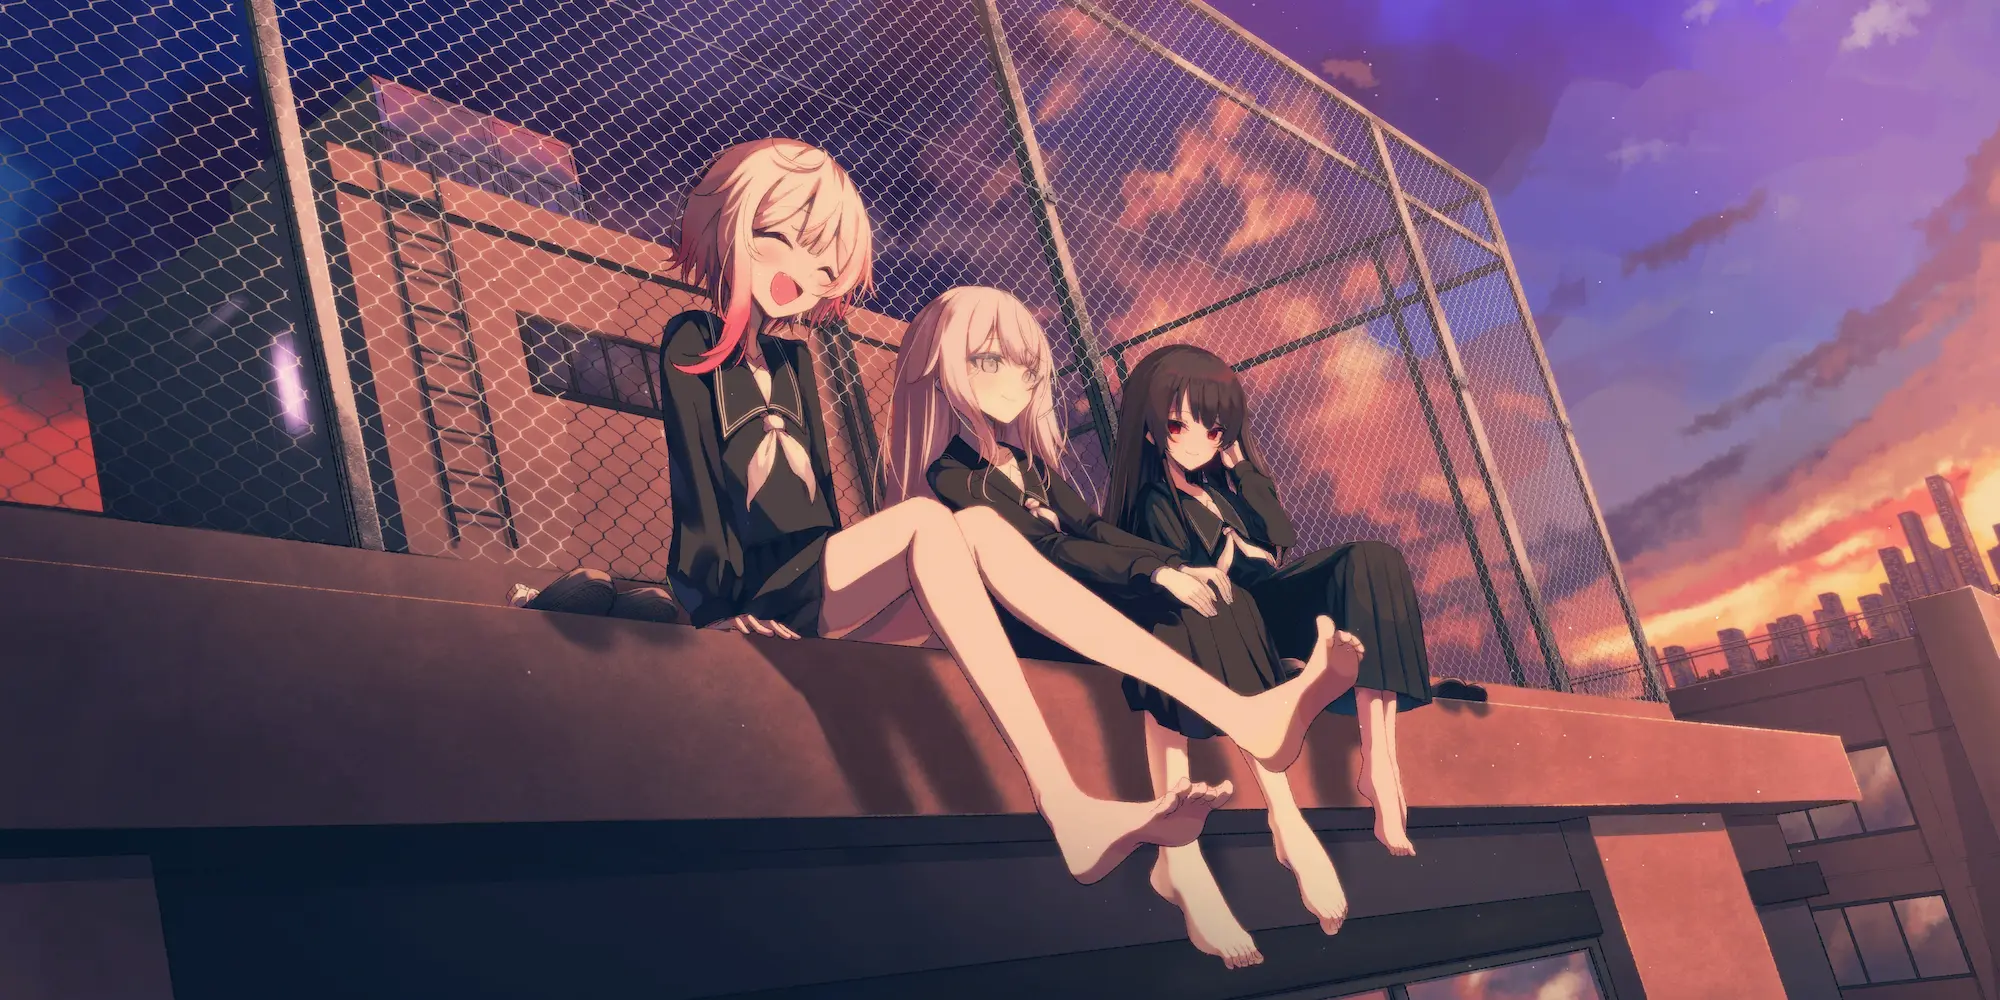
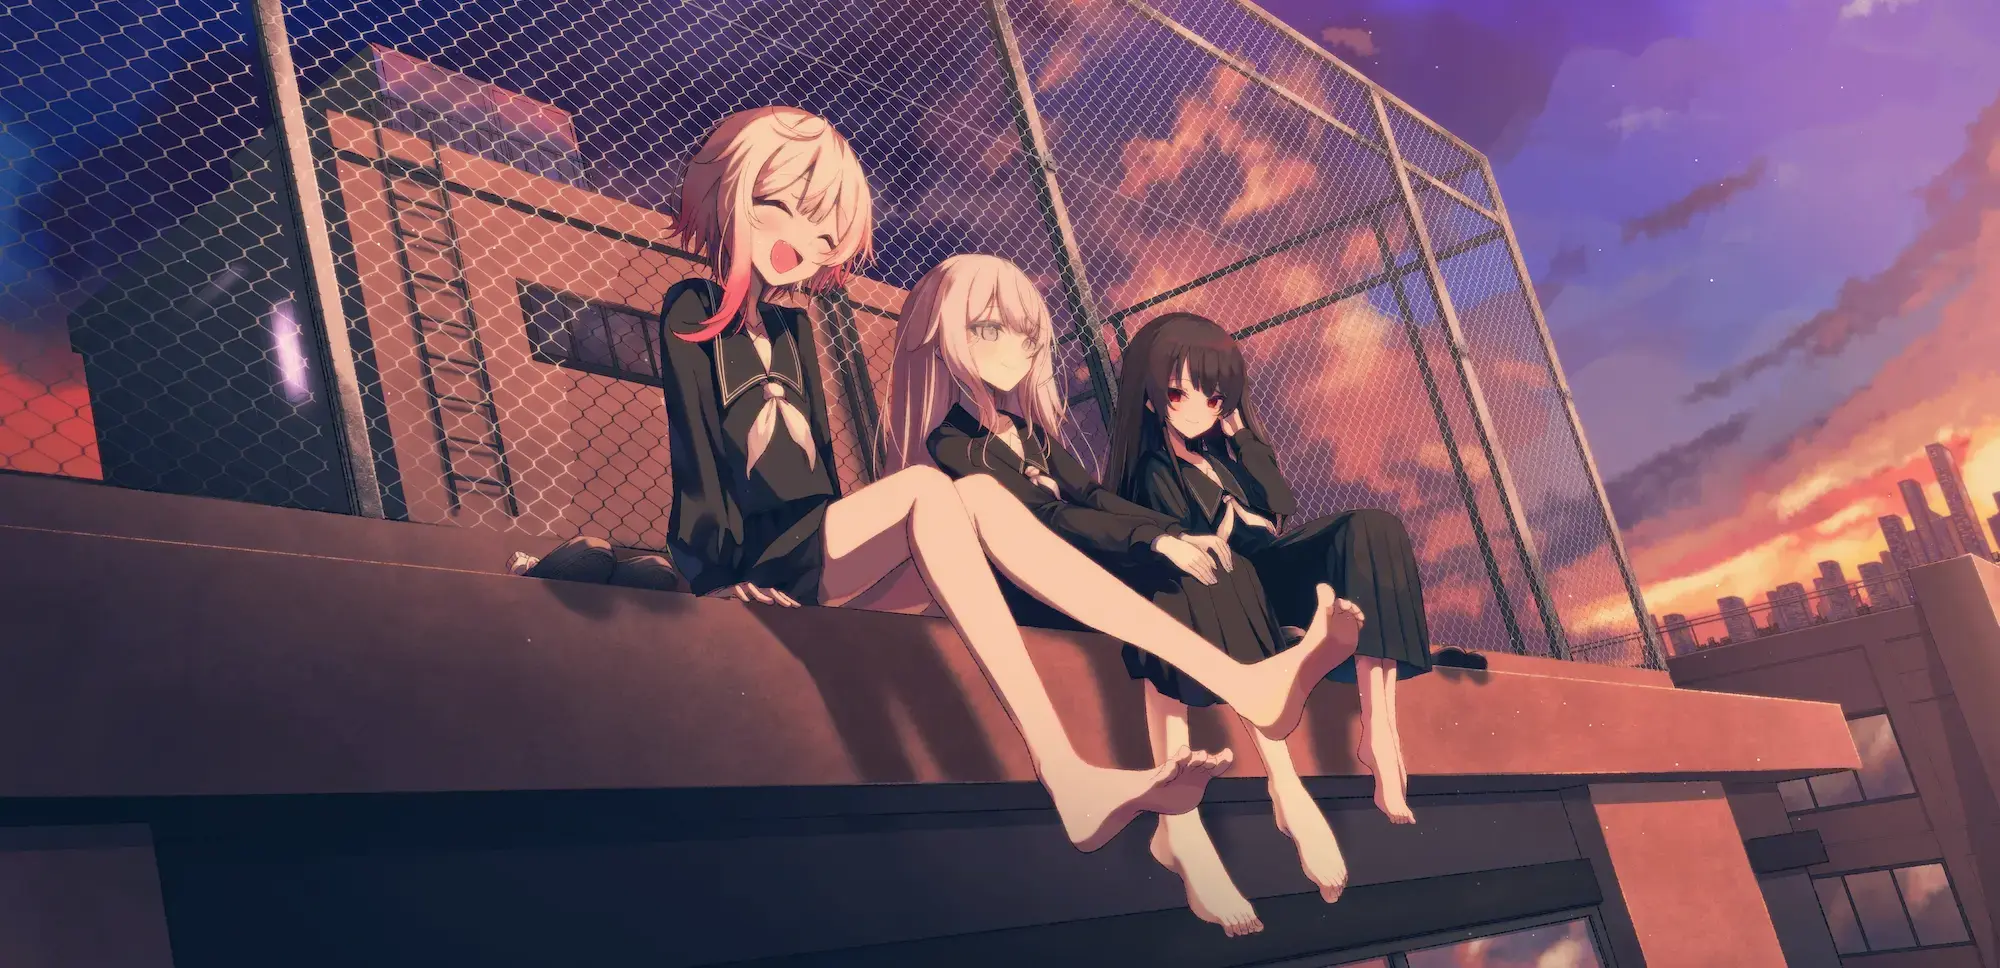
chore: replace large png backgrounds with optimized webp

diff --git a/src/config.ts b/src/config.ts
@@ -17,7 +17,7 @@ export const siteConfig: SiteConfig = {
 	},
 	banner: {
 		enable: true,
-		src: "assets/images/banner.png", // Relative to the /src directory. Relative to the /public directory if it starts with '/'
+		src: "assets/images/banner.webp", // Relative to the /src directory. Relative to the /public directory if it starts with '/'
 		position: "top", // Equivalent to object-position, only supports 'top', 'center', 'bottom'. 'center' by default
 		credit: {
 			enable: true, // Display the credit text of the banner image

diff --git a/src/content/posts/hoshishiro-unpack/index.md b/src/content/posts/hoshishiro-unpack/index.md
@@ -2,7 +2,7 @@
 title: 《星空列车与白的旅行》拆包细节
 published: 2026-03-16
 description: ' '
-image: './cover.png'
+image: './cover.webp'
 tags: ['Galgame', '拆包', '星空列车与白的旅行']
 category: '游戏'
 draft: false 
